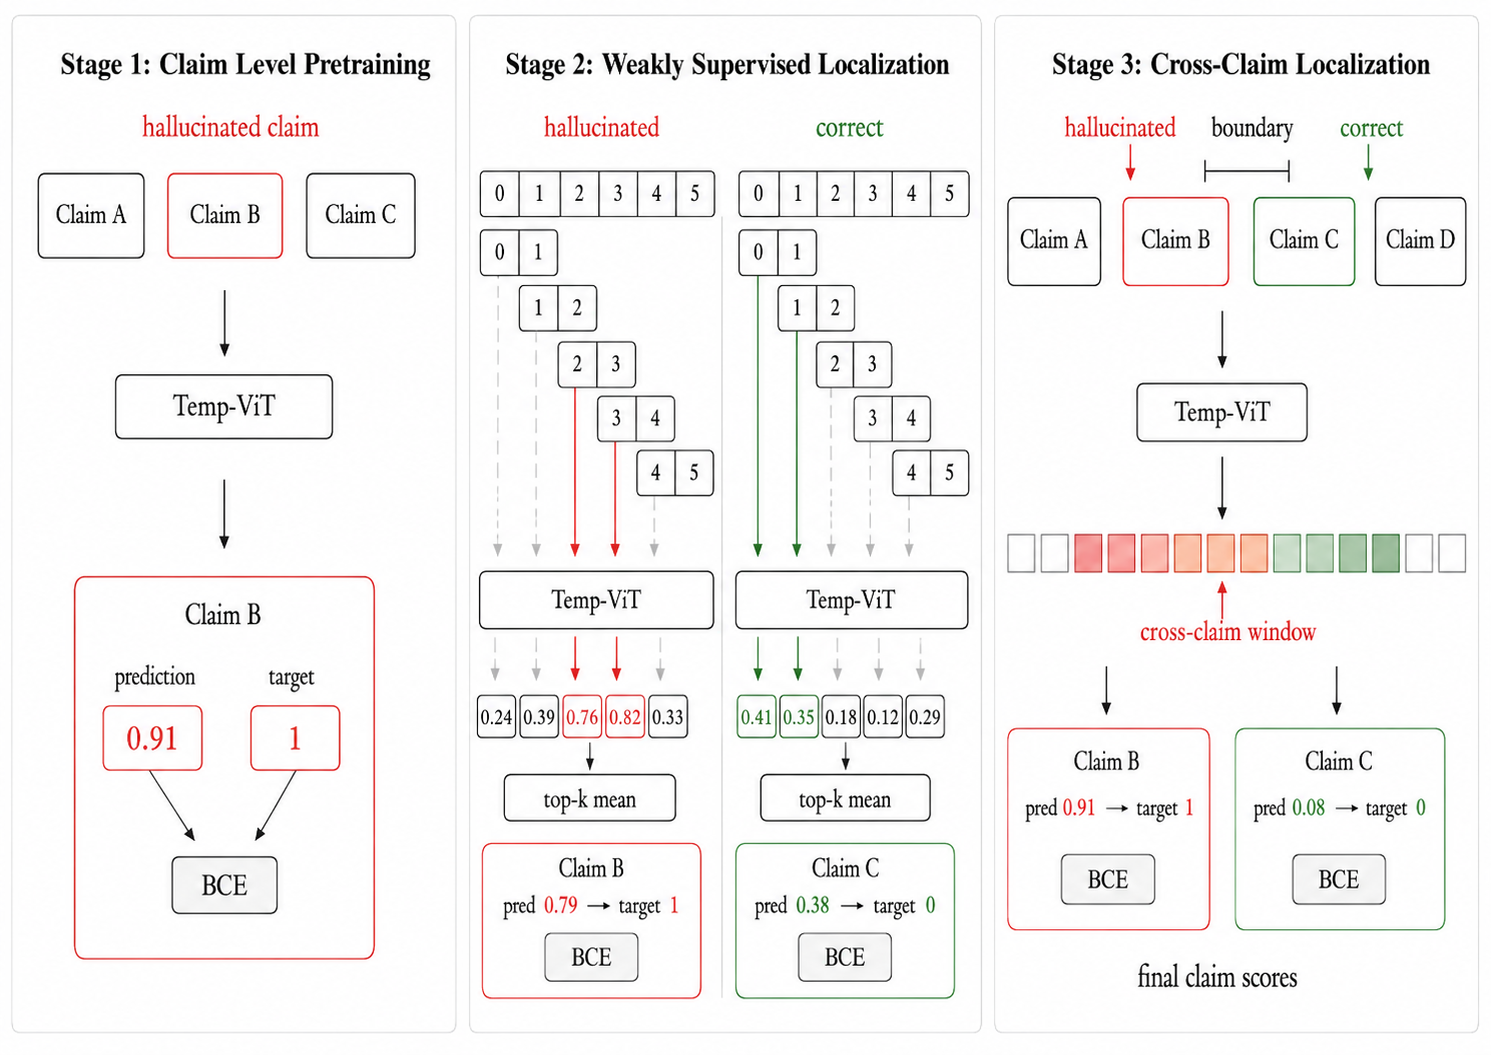
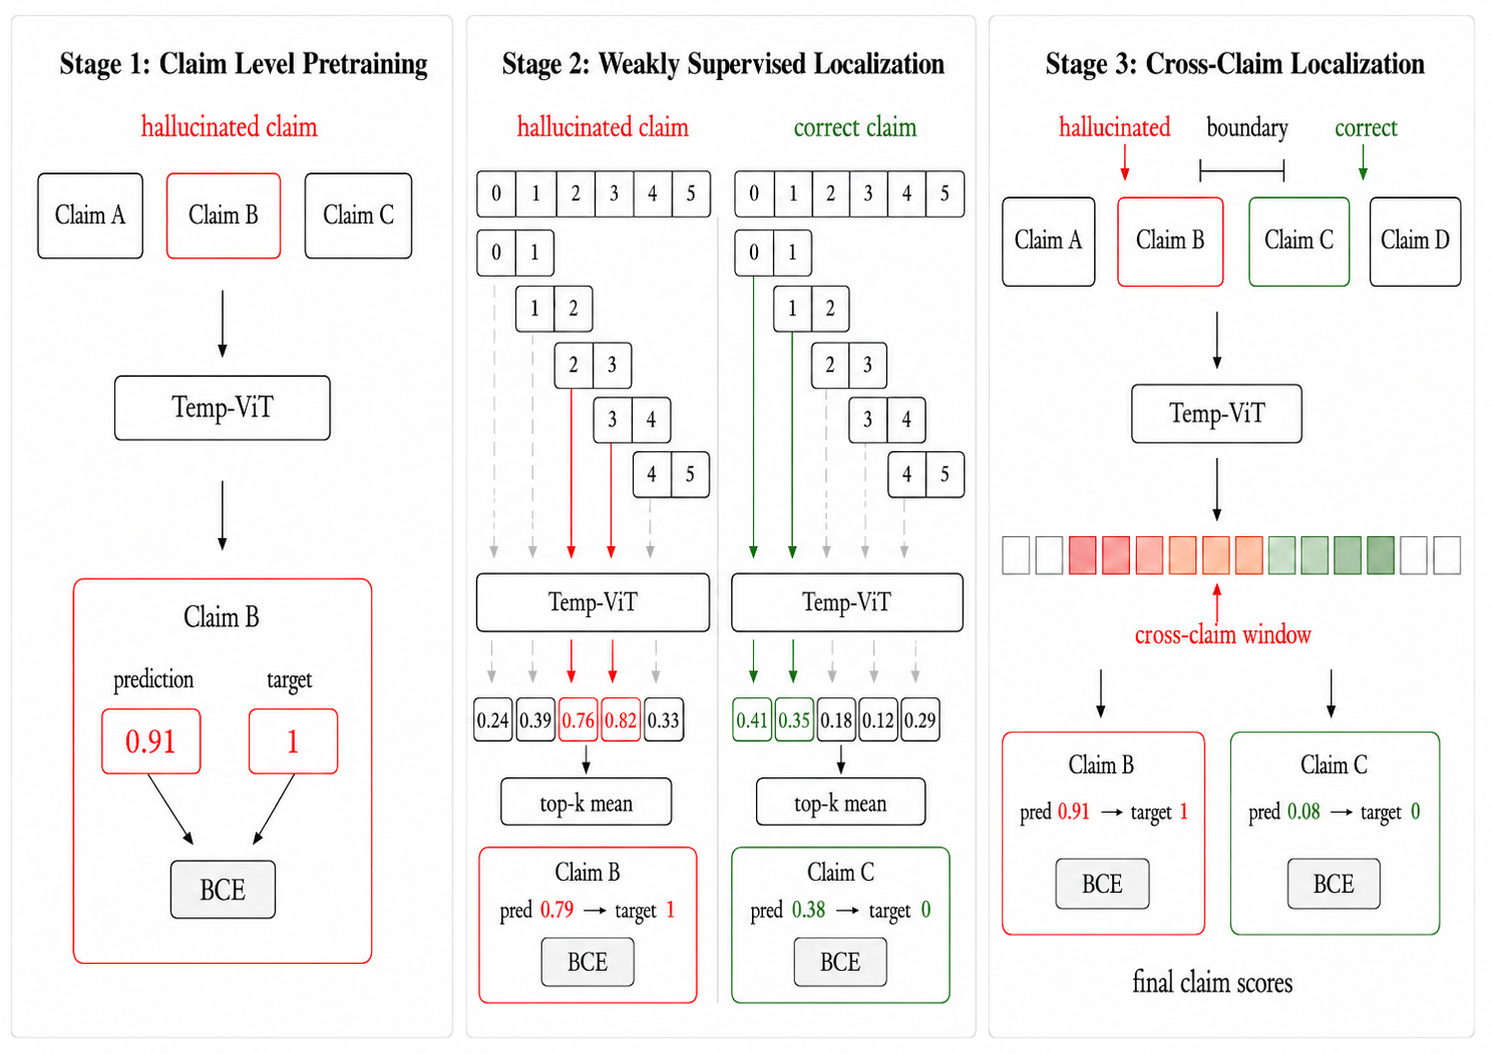
docs(paper): rewrite abstract/intro, add Temp-ViT teaser, refresh Fig 1 caption
Reframe the abstract and introduction around confidence vs. consistency
vs. mechanistic methods and lead §1 with a new Temp-ViT teaser figure
showing per-token uncertainty being localized into a hallucinated span.
Rewrite the Figure 1 caption around the three-stage training story and
move \input{fig1_overview} into §3 next to the signal-propagation figure;
the Appendix takes over the §3 perf-by-length figure.

diff --git a/paper/sections/01_introduction.tex b/paper/sections/01_introduction.tex
@@ -1,54 +1,48 @@
 \section{Introduction}
 
+\input{figs/fig_temp_vit_example}
+
 \paragraph{Why this matters.}
 Despite the significant improvements on reducing hallucinations of LLMs, they still 
 are subceptible to it, especially on long-form answers where they prioritize fluency
 over expressing uncertainty. These hallucinations reduce their reliability
 because the LLM may sound confident when it isn't. We can detect these type of
 hallucinations using uncertianty quantification methods. Some of these methods include
-prediciting its uncertain based on the token probablities, sampling multiple responses
+prediciting uncertainty based on the token probablities, sampling multiple responses
 and verifying their consistensy, asking itself, and analyzing the internals
 of the LLM to correlate them with uncertain behavior. Existing detectors miss this on at least one of cost,
 granularity, and performace over long answers.
 
 \paragraph{What current methods leave open.}
-External-tool detectors (judging with another LLM, sampling many
-responses, or retrieving evidence) are accurate but slow and
+Confidence-based methods don't account for sematic similarities or 
+have lower performance on long-form sequences. Methods that rely on sampling many responses or use
+external tools (e.g. judging with another LLM or retrieving evidence), are more accurate but slow and
 expensive. Mechanistic methods avoid extra LLM calls by
 inspecting the hidden states of the generating model, but each family
-hits a different wall. Probes trained on a fixed layer-token
-position are cheap (one forward pass) yet miss signal that moves
-across layers, tokens, tasks, and models. Activation-tensor methods
-like ACT-ViT consume the full hidden tensor
-$A \in \mathbb{R}^{L \times T \times D}$ ($L$ layers, $T$ generated
-tokens, $D$ hidden dimensions) and capture distributed signal, but
-their fixed pooled shape dilutes information as $T$ grows; methods
-that avoid this loss pay prohibitive inference cost. None of these
-output where in the response the uncertainty lives. The
-natural workaround, extracting atomic claims (referred to as claims
-hereafter), verifying each, and broadcasting the verdict to every
-token of the span, yields doubly noisy supervision: spans contain
-non-hallucinated tokens, and the predictive activation signal often
-appears before the false claim is generated.
-
-\input{figs/fig1_overview}
+hits a different wall. Probes trained on a fixed layer and token
+position are cheap but miss uncertianty signals that reside in different layers and tokens
+depending on the task and model. Probes that analyze hidden states across all tokens and layers
+capture distributed signal, but they don't scale well with long sequences. They must either
+scale their model and sacrifice inference speed or keep the same scale and sacrifice accuracy. Additially,
+probes are often designed for full-sequence predictions rather than localized predictions at the token or segment level. 
+The current workaround is to extract claims, classify them, and broadcasting the verdict to every
+token of the claim's original text span. However, this process is inefficient and ignores the uncertianty signals that
+appear before the hallucinated span.
 
 \paragraph{Our approach and contributions.}
 We recast mechanistic hallucination detection as weakly supervised
 temporal localization (WSTL), borrowing from video understanding
 \citep{pilhyeonlee2021}: a video model localizes an action from
 clip-level labels without per-frame supervision. We treat the
-activation tensor $A$ as a video over the token axis, with each
-token a frame whose height is the layer axis and whose channels are
-the hidden dimension, and a length-$W$ window the local
-context the model scores. On this representation we build
-Temp-ViT: a ViT encoder over the layer-token plane paired
-with a Mamba-2 temporal head \citep{albertgu2024}, whose linear-time
-inference makes the method viable for real-time long-form generation.
-Concretely we contribute:
+hidden-state activations as a video over the token axis. Specifically, each
+token is a frame whose height is the number of layers and whose channels are
+the hidden dimension. The input of our model is a fixed-length window of activations across the token axis.
+Based on this representation, we build Temp-ViT: a ViT encoder over the layer and token plane paired
+with a temporal head \citep{albertgu2024}, whose linear-time inference makes the method viable for real-time
+long-form generation. Concretely we contribute:
 \begin{enumerate}
     \item We recast mechanistic hallucination detection as weakly supervised
-    temporal localization over LLM activation tensors, enabling uncertainty
+    temporal localization over LLM hidden-state activations, enabling uncertainty
     scores to be assigned to local regions of a long-form response rather
     than only to the full sequence.
 

diff --git a/paper/sections/00_abstract.tex b/paper/sections/00_abstract.tex
@@ -1,24 +1,24 @@
 \begin{abstract}
-Detecting hallucinations in long-form LLM outputs requires uncertainty
-estimates that are both fine-grained and efficient. Existing
-sampling-based methods capture uncertainty but are too expensive for
-long generations, while recent mechanistic methods use hidden states
-efficiently but often probe isolated layer-token positions or pool
-over long sequences, losing token-level signals. We introduce a temporal uncertainty localization framework
+Detecting hallucinations in long-form LLM outputs requires methos that are both fine-grained and efficient.
+A way to detect hallucinations is to estimate the uncertainty of the LLM using uncertianty quantification methods.
+Existing confidence-based methods have low performance on long-form generations and struggle to capture sematic similarities.
+Concistency-based methods capture sematic similarities but are too expensive for
+long generations. Recent mechanistic methods use hidden states to
+efficiently estimate uncertainty but often probe isolated layer-token positions or pool
+over long sequences losing useful signals. We introduce a temporal uncertainty localization framework
 that predicts token-level hallucination uncertainty from hidden-state
 activations. Our method analyzes activation patterns across all
-layers within local token windows and uses a temporal head to model
-how uncertainty signals evolve across the generated text. It is
-trained in three stages: an encoder first learns uncertainty patterns
-from claim spans, a temporal head then localizes uncertain windows
-within claims using top-$k$ MIL, and a final passage-level stage
-teaches the model how the activation signal changes across claim
-spans, including on mixed-content windows that straddle hallucinated
-and supported tokens. Across long-form hallucination benchmarks (RAGTruth, FActScore, LongFact) 
-and the LM-Polygraph short-form uncertainty benchmark, our method
-improves token-level AUROC by up to $\approx 30\%$ over pooled
-activation-tensor baselines, remains competitive on short-form tasks,
-and runs $\approx 25\times$ faster on long passages. These results
+layers within local token windows and uses a temporal head to capture uncertainty signals
+across the generated text. It is trained in three stages: an encoder first learns 
+uncertainty patterns from claim, then it learns to localize uncertain windows
+within claims using top-$k$ MIL. Lastly, a final passage-level stage
+teaches the model how the activation signal changes across claims, 
+including mixed-content windows that straddle hallucinated and supported tokens. 
+Across long-form hallucination benchmarks (RAGTruth, FActScore, LongFact) 
+and the LM-Polygraph uncertainty benchmark, our method
+improves token-level AUROC by up to $30\%$ over pooled
+activation-tensor and confidence-based baselines, remains competitive on short-form tasks,
+and runs $25\times$ faster on long passages. These results
 show that temporal modeling of hidden-state signals enables scalable
 token-level hallucination detection for long-form generation.
 \end{abstract}

diff --git a/paper/figs/fig_temp_vit_example.tex b/paper/figs/fig_temp_vit_example.tex
@@ -1,0 +1,9 @@
+\begin{figure}[!t]
+\centering
+\includegraphics[width=\linewidth]{figs/temp-vit_example.png}
+\caption{Temp-ViT on a generated sentence: per-token uncertainty signals from
+the LLM's hidden states (top) are read by Temp-ViT and aggregated into
+per-window hallucination scores (bottom), localizing the unsupported
+span \emph{``in Alabama''} without per-token labels.}
+\label{fig:temp_vit_example}
+\end{figure}

diff --git a/paper/sections/02_related_work.tex b/paper/sections/02_related_work.tex
@@ -44,8 +44,8 @@ a single layer-token slice
 plane as an activation image and pooling it through a Vision
 Transformer; this widens the receptive field but commits to one
 score per response, which dilutes the signal as responses grow long
-(Figure~\ref{fig:perf_by_length}) and forces one forward per token
-when used streaming (Figure~\ref{fig:inference_time}). Fact-probe
+(Appendix Figure~\ref{fig:perf_by_length}) and forces one forward per
+token when used streaming (Figure~\ref{fig:inference_time}). Fact-probe
 \citep{snyder2024,he2024} pushes detection to claim-level granularity
 but at the cost of one forward per claim. A second axis of work
 probes attention for hallucination patterns
@@ -75,5 +75,3 @@ when read in isolation. We make the token level usable in practice by
 sharing computation across a window of tokens rather than scoring each
 in isolation, and by training under weakly supervised temporal
 localization.
-
-\input{figs/fig_perf_by_length}

diff --git a/paper/sections/03_non_static_probing.tex b/paper/sections/03_non_static_probing.tex
@@ -16,8 +16,9 @@ responses where most tokens are correct and only a few are
 problematic.
 
 \paragraph{Tensor methods degrade with response length.}
-Figure~\ref{fig:perf_by_length} reports per-token AUROC on LongFact as
-the input prefix length $T$ grows. ACT-ViT with a short pooled token
+Appendix Figure~\ref{fig:perf_by_length} reports per-token AUROC on
+LongFact as the input prefix length $T$ grows. ACT-ViT with a short
+pooled token
 axis performs well only for short prefixes, but its performance drops
 as more generated tokens are compressed into the same fixed-size
 representation; widening the pooled axis partially reduces this
@@ -41,6 +42,7 @@ labels as weak supervision and learn to localize uncertainty through
 window-level temporal modeling.
 
 \input{figs/fig_signal_propagation}
+\input{figs/fig1_overview}
 
 \paragraph{Additional probe evidence.} Per layer-token probes also
 show that the most informative hidden-state positions are distributed